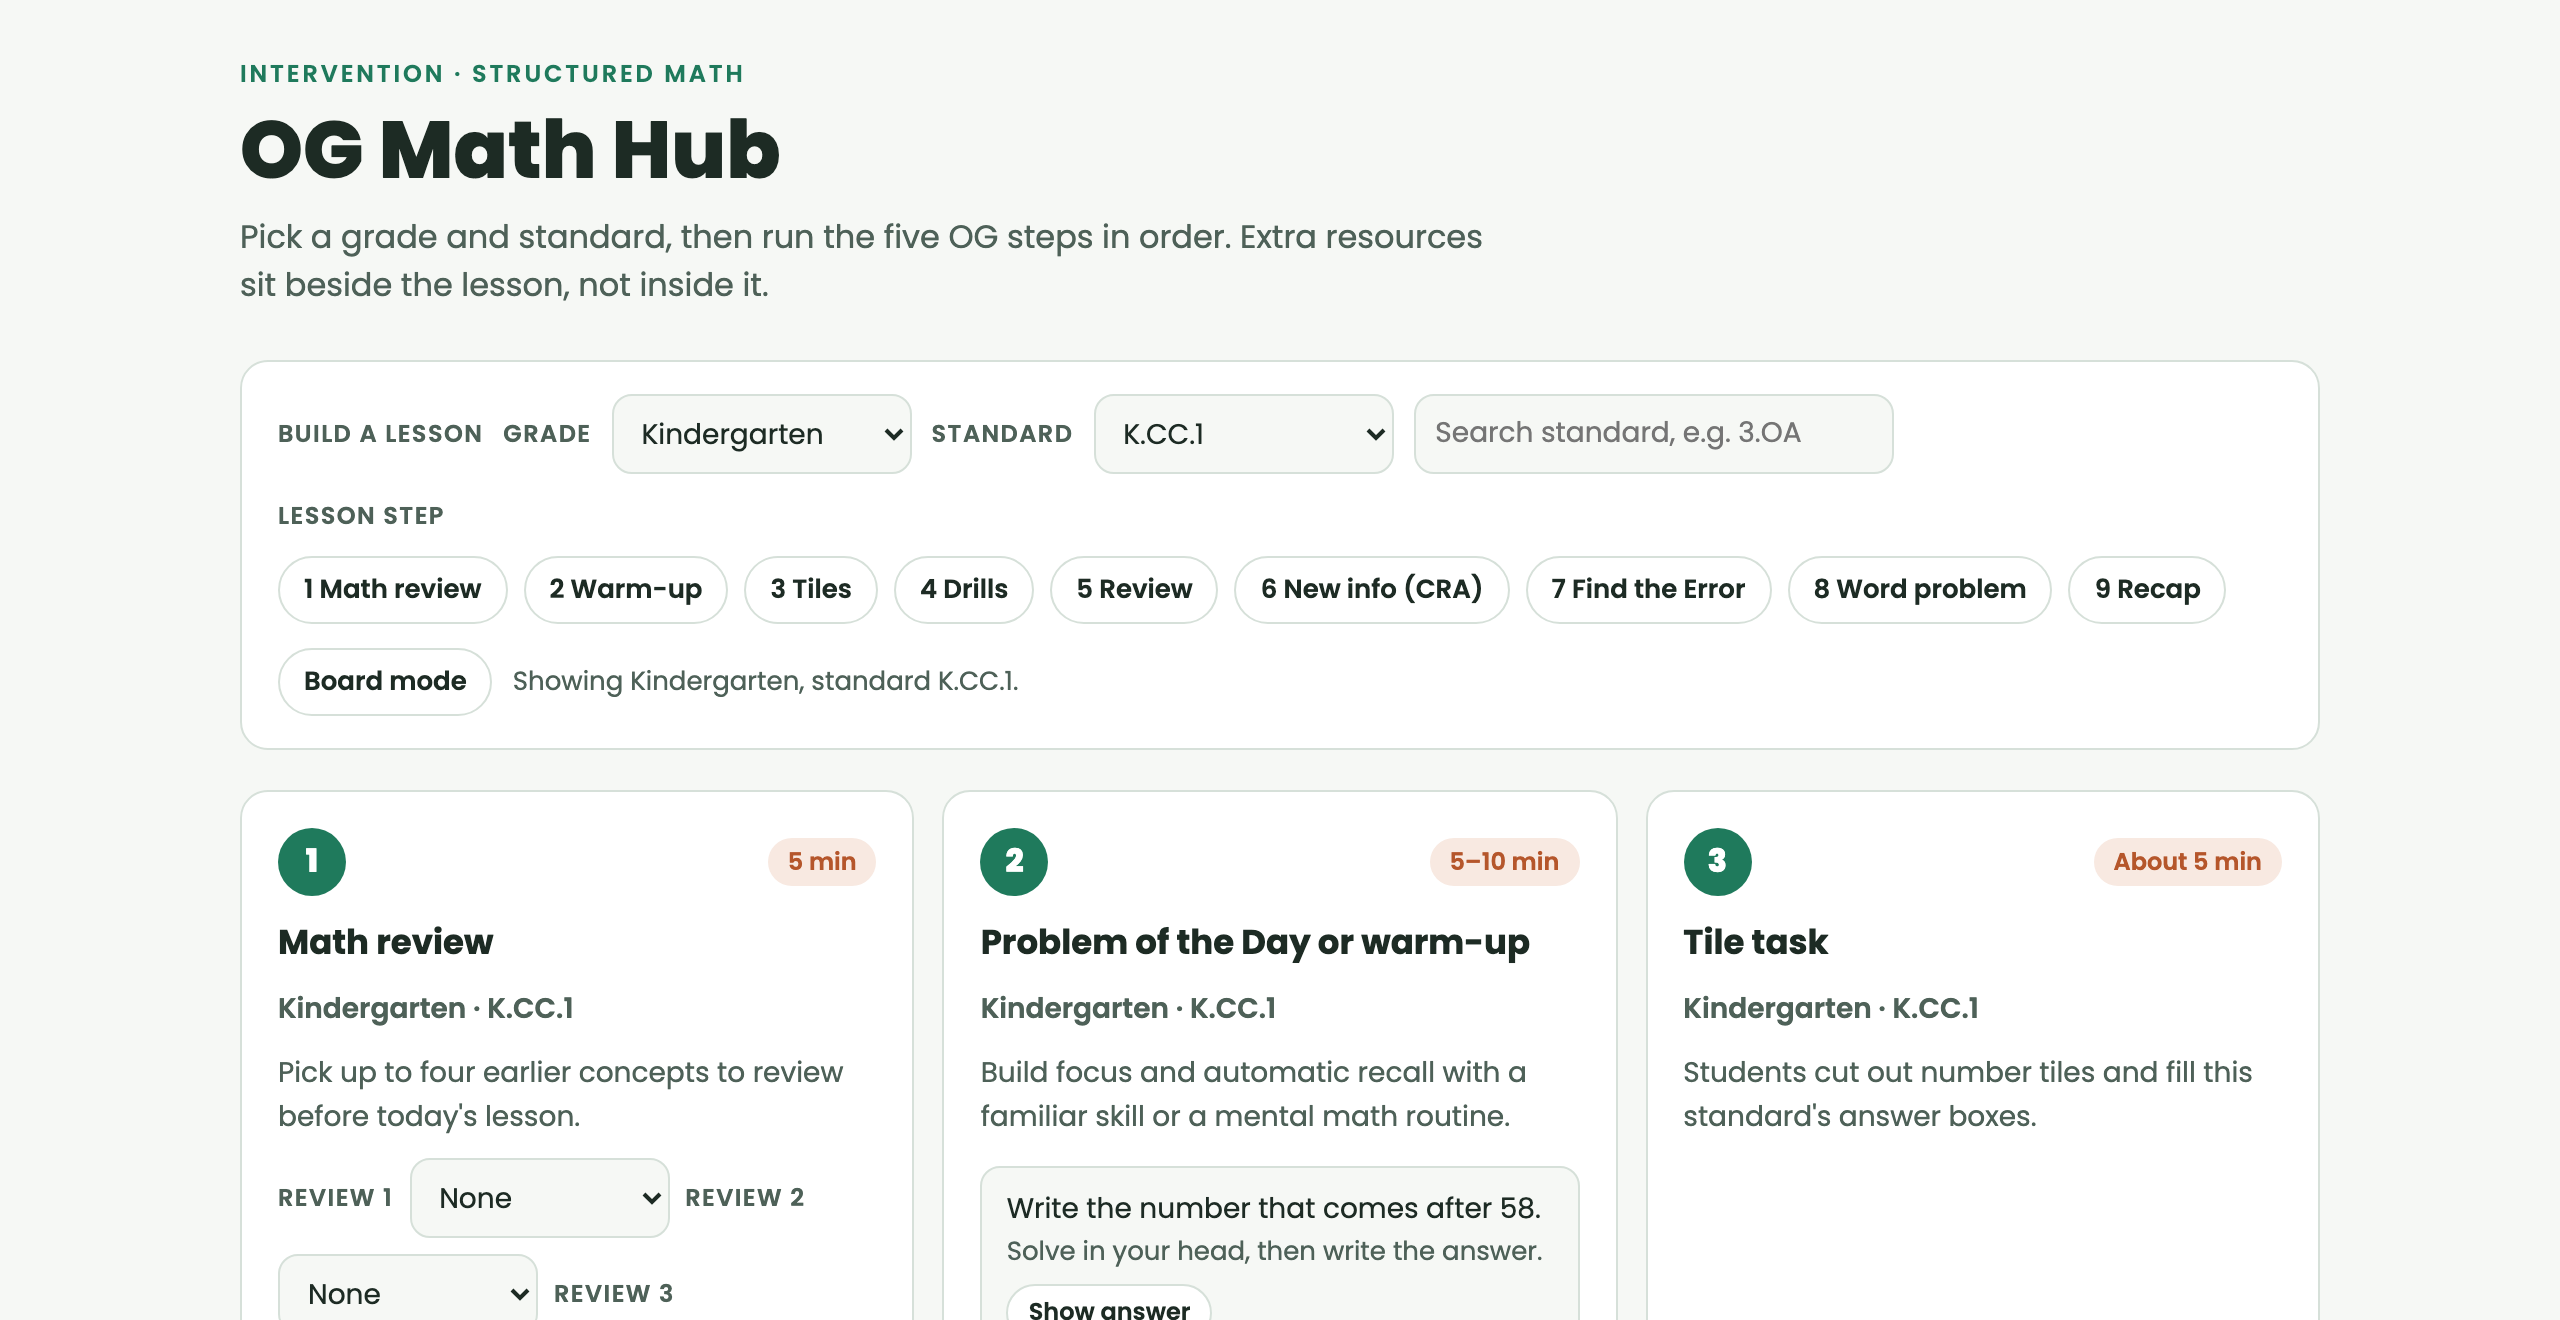
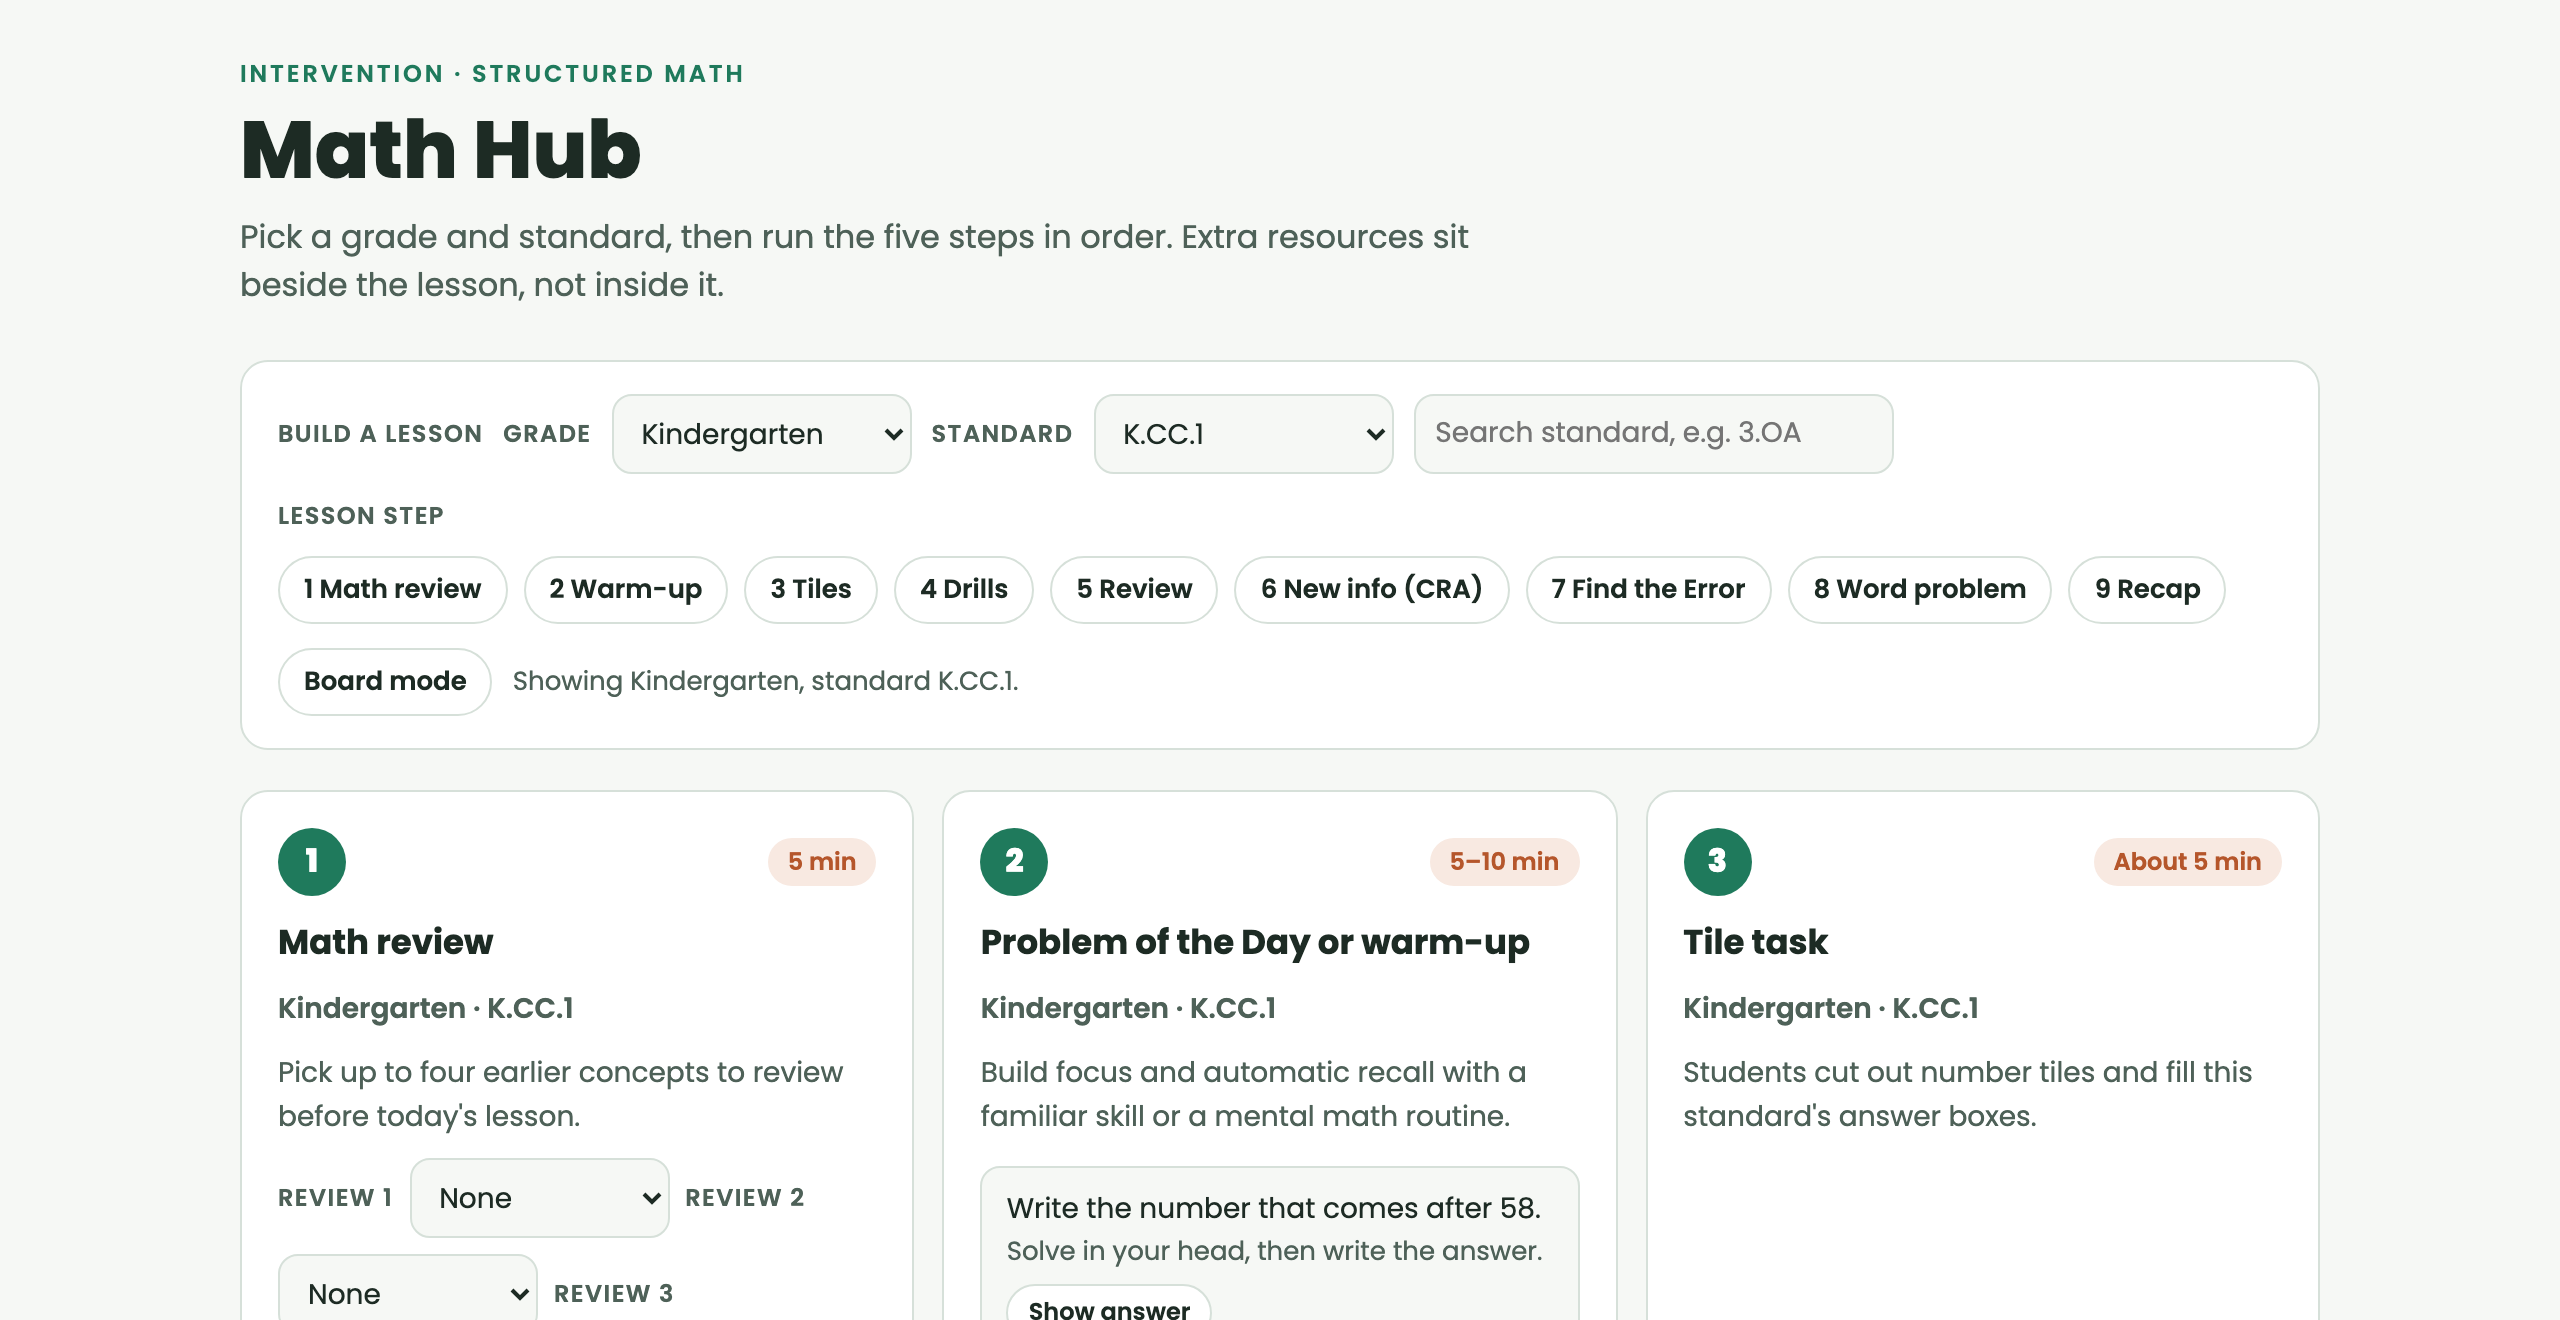
Call it the Math Hub
Orton-Gillingham is the method behind it, not its name, and the tab it
hangs off already says Math. Dropped from the card, the alt text, the
page description and the sign-in blurb.

The hub's own title, heading and lede are renamed at seed time rather
than by editing the export, so a fresh drop of the file comes out right
without anyone remembering to. That needed adapt() split into a runner
and a chooser: the maths hub is a plain export with no dc-runtime
marker, so it takes its own one-rule list, with the same hard failure
if a rule stops matching.

Preview image re-shot from the stored copy.

Changed region(s): [[0.0938, 0.0932, 0.3125, 0.1553], [0.0938, 0.1864, 0.2812, 0.2485], [0.375, 0.1553, 0.5938, 0.1864]]

diff --git a/scripts/seed-reading-materials.ts b/scripts/seed-reading-materials.ts
@@ -1397,11 +1397,37 @@ const ADAPTATIONS: Adaptation[] = [
   },
 ];
 
-function adapt(rel: string, html: string): string {
-  if (!html.includes("GENERATED from dc-runtime")) return html;
+/**
+ * The maths hub is a plain HTML export rather than a canvas one, so it has
+ * no dc-runtime marker and takes its own short list of rules.
+ */
+const MATH_HUB = "math/math-hub.html";
+
+const MATH_ADAPTATIONS: Adaptation[] = [
+  {
+    // Teachers know this one as the Math Hub. Orton-Gillingham is the method
+    // behind it, not its name, and the tab it hangs off already says Math.
+    name: "call it the Math Hub",
+    apply: (html) => {
+      const edits: [string, string][] = [
+        ["<title>OG Math Hub</title>", "<title>Math Hub</title>"],
+        ["<h1>OG Math Hub</h1>", "<h1>Math Hub</h1>"],
+        ["run the five OG steps in order", "run the five steps in order"],
+      ];
+      let out = html;
+      for (const [from, to] of edits) {
+        if (!out.includes(from)) return html;
+        out = out.replace(from, to);
+      }
+      return out;
+    },
+  },
+];
+
+function run(rel: string, html: string, rules: Adaptation[]): string {
   let out = html;
   const missed: string[] = [];
-  for (const rule of ADAPTATIONS) {
+  for (const rule of rules) {
     const next = rule.apply(out);
     if (next === out) missed.push(rule.name);
     out = next;
@@ -1412,8 +1438,14 @@ function adapt(rel: string, html: string): string {
     console.error("   Nothing was written. Fix the rule in this script, or the export.\n");
     process.exit(1);
   }
-  console.log(`  \u2713 adapted ${rel} (${ADAPTATIONS.length} rules)`);
+  console.log(`  \u2713 adapted ${rel} (${rules.length} rules)`);
   return out;
+}
+
+function adapt(rel: string, html: string): string {
+  if (rel === MATH_HUB) return run(rel, html, MATH_ADAPTATIONS);
+  if (!html.includes("GENERATED from dc-runtime")) return html;
+  return run(rel, html, ADAPTATIONS);
 }
 
 async function walk(dir: string): Promise<string[]> {

diff --git a/src/app/math/page.tsx b/src/app/math/page.tsx
@@ -19,7 +19,7 @@ import { MaterialsPass } from "@/components/shared/MaterialsPass";
 export const metadata = {
   title: "Math — Upshift Learning",
   description:
-    "Pick a grade and standard, then run the OG maths lesson steps in order.",
+    "Pick a grade and standard, then run the maths lesson steps in order.",
 };
 
 const CREAM = "#FAF7F2";
@@ -93,7 +93,7 @@ function Hub() {
                 BUILD A LESSON
               </div>
               <div style={{ fontSize: 27, fontWeight: 800, lineHeight: 1.15, marginTop: 6 }}>
-                OG Math Hub
+                Math Hub
               </div>
               <p style={{ fontSize: 15, fontWeight: 500, color: MUTED, margin: "8px 0 0", lineHeight: 1.55 }}>
                 305 standards across Kindergarten to Grade 12. Pick a grade and a standard and it
@@ -104,7 +104,7 @@ function Hub() {
             </div>
             <Image
               src="/previews/math-hub.png"
-              alt="The OG Math Hub with a grade and standard chosen: the filter row, the lesson step chips, and the first lesson cards."
+              alt="The Math Hub with a grade and standard chosen: the filter row, the lesson step chips, and the first lesson cards."
               width={1280}
               height={660}
               style={{
@@ -187,7 +187,7 @@ export default function MathPage() {
       <main className="flex-1">
         <SignInGate
           title="Math"
-          blurb="Pick a grade and standard, then run the OG maths lesson steps in order. Free — an account is all it takes."
+          blurb="Pick a grade and standard, then run the maths lesson steps in order. Free — an account is all it takes."
         >
           {/* The hub is a link into /api/materials, so the pass has to be
               traded before it is clicked. */}
